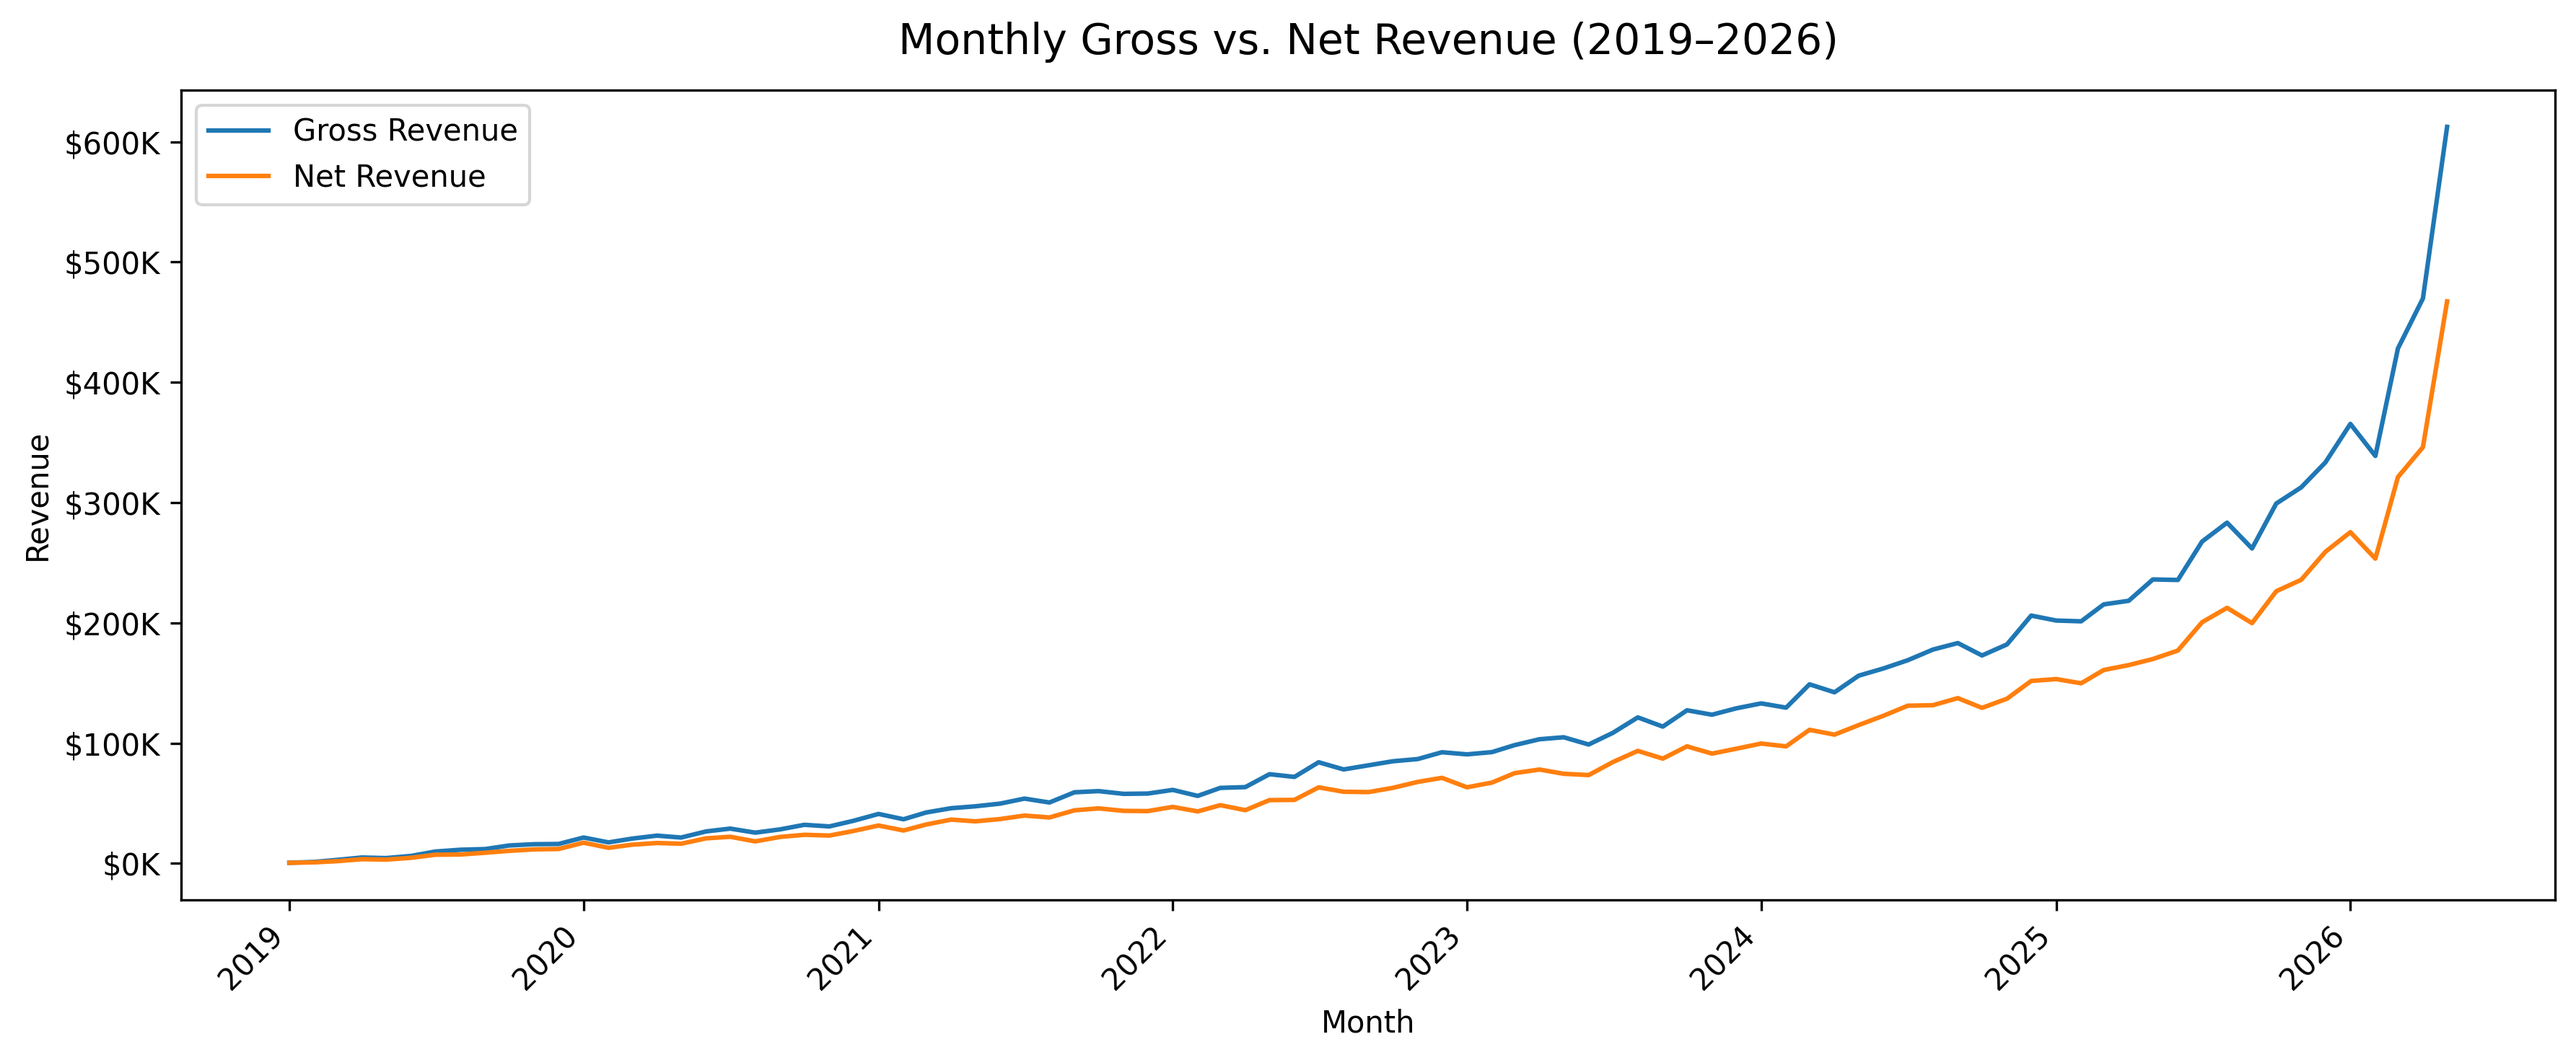
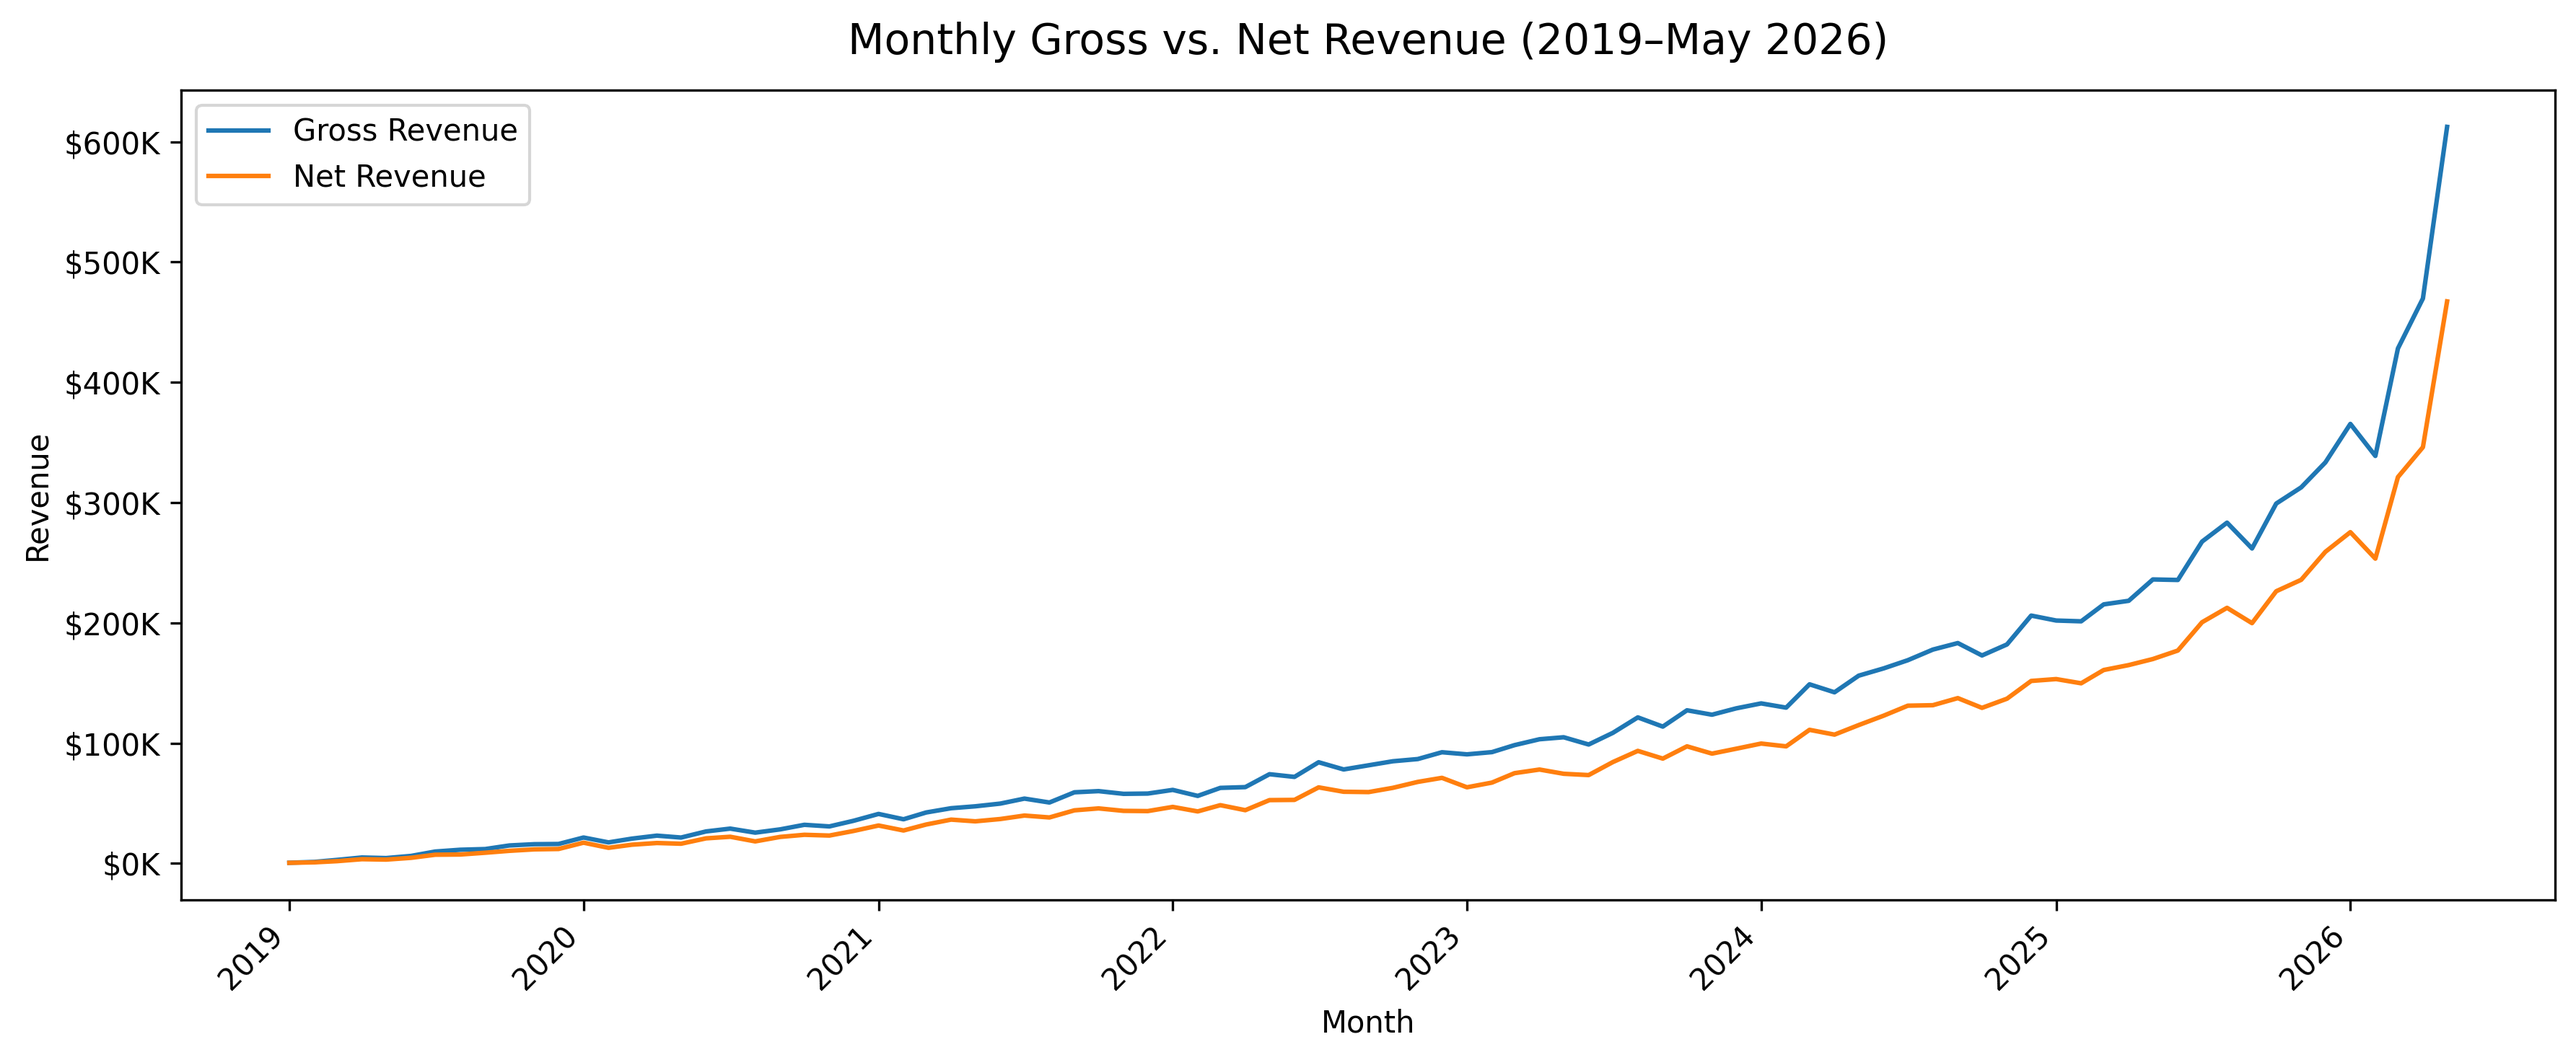
Apply credibility fixes from follow-up review
- requirements.txt: remove scipy, scikit-learn, jupyter (not used)
- Charts: standardize all outputs to dpi=300 (was 150 for product value
  and waterfall scripts)
- lifetime_margin_vs_repeat_rate: legend now reads "Mean category repeat
  rate" to distinguish it from the platform repeat buyer rate
- Monthly revenue chart title: "2019–May 2026" (June excluded as partial)
- README: note that BigQuery CSV column names must match sql file exactly;
  add pointer to reports/metric_definitions.md

Changed region(s): [[0.3109, 0.0, 0.7462, 0.0612]]

diff --git a/src/create_product_value_charts.py b/src/create_product_value_charts.py
@@ -103,7 +103,7 @@ def chart_first_vs_post() -> None:
 
     plt.tight_layout()
     out = FIGURES_DIR / "first_vs_post_first_order_margin.png"
-    fig.savefig(out, dpi=150, bbox_inches="tight")
+    fig.savefig(out, dpi=300, bbox_inches="tight")
     plt.close(fig)
     print(f"  Saved: {out.name}")
 
@@ -144,7 +144,7 @@ def chart_lifetime_margin_vs_repeat() -> None:
             color="#374151",
             ha="left" if dx > 0 else "right",
         )
-    ax.axvline(mean_rr, linestyle="--", color="#9CA3AF", linewidth=1, label=f"Mean repeat rate ({mean_rr:.1f}%)")
+    ax.axvline(mean_rr, linestyle="--", color="#9CA3AF", linewidth=1, label=f"Mean category repeat rate ({mean_rr:.1f}%)")
     ax.axhline(mean_lm, linestyle="--", color="#6B7280", linewidth=1, label=f"Mean lifetime margin (${mean_lm:.0f})")
 
     # Expand x-axis so compressed repeat-rate range is readable
@@ -162,7 +162,7 @@ def chart_lifetime_margin_vs_repeat() -> None:
 
     plt.tight_layout()
     out = FIGURES_DIR / "lifetime_margin_vs_repeat_rate.png"
-    fig.savefig(out, dpi=150, bbox_inches="tight")
+    fig.savefig(out, dpi=300, bbox_inches="tight")
     plt.close(fig)
     print(f"  Saved: {out.name}")
 
@@ -249,7 +249,7 @@ def chart_revenue_margin_quadrant() -> None:
 
     plt.tight_layout()
     out = FIGURES_DIR / "revenue_margin_quadrant.png"
-    fig.savefig(out, dpi=150, bbox_inches="tight")
+    fig.savefig(out, dpi=300, bbox_inches="tight")
     plt.close(fig)
     print(f"  Saved: {out.name}")
 
@@ -297,7 +297,7 @@ def chart_strategic_role_counts() -> None:
 
     plt.tight_layout()
     out = FIGURES_DIR / "strategic_role_counts.png"
-    fig.savefig(out, dpi=150, bbox_inches="tight")
+    fig.savefig(out, dpi=300, bbox_inches="tight")
     plt.close(fig)
     print(f"  Saved: {out.name}")
 

diff --git a/src/create_core_metric_charts.py b/src/create_core_metric_charts.py
@@ -29,7 +29,7 @@ df_monthly = df_monthly[df_monthly["order_month"].dt.strftime("%Y-%m") != "2026-
 fig, ax = plt.subplots(figsize=(12, 5))
 ax.plot(df_monthly["order_month"], df_monthly["gross_revenue"], label="Gross Revenue", linewidth=1.5)
 ax.plot(df_monthly["order_month"], df_monthly["net_revenue"], label="Net Revenue", linewidth=1.5)
-ax.set_title("Monthly Gross vs. Net Revenue (2019–2026)", fontsize=14, pad=12)
+ax.set_title("Monthly Gross vs. Net Revenue (2019–May 2026)", fontsize=14, pad=12)
 ax.set_xlabel("Month")
 ax.set_ylabel("Revenue")
 ax.yaxis.set_major_formatter(mticker.FuncFormatter(lambda x, _: f"${x / 1_000:.0f}K"))

diff --git a/src/create_unit_economics_waterfall.py b/src/create_unit_economics_waterfall.py
@@ -173,7 +173,7 @@ def main() -> None:
 
     plt.tight_layout(rect=[0, 0.03, 1, 1])
     out = FIGURES_DIR / "unit_economics_waterfall.png"
-    fig.savefig(out, dpi=150, bbox_inches="tight")
+    fig.savefig(out, dpi=300, bbox_inches="tight")
     plt.close(fig)
     print(f"  Saved: {out.name}")
     print("\nDone.")

diff --git a/README.md b/README.md
@@ -67,6 +67,8 @@ python src/validate_raw_data.py
 #      overall_business_summary.csv, monthly_business_metrics.csv,
 #      category_business_metrics.csv, customer_purchase_summary.csv,
 #      order_status_rates.csv
+#    Column names must match those defined in sql/02_core_business_metrics.sql exactly;
+#    BigQuery exports may need to be renamed if headers are auto-formatted on download.
 python src/create_core_metric_charts.py
 
 # 5. Product / customer value analysis
@@ -294,3 +296,5 @@ Product cost is estimated using the platform blended margin rate of 51.9% (weigh
 ```
 
 > `data/` is git-ignored. Raw and processed CSVs live locally only. `outputs/tables/` is also git-ignored; only chart PNGs are committed.
+
+See [`reports/metric_definitions.md`](reports/metric_definitions.md) for definitions of all computed metrics and the revenue conventions (gross vs. net, estimated margin) used across analyses.
